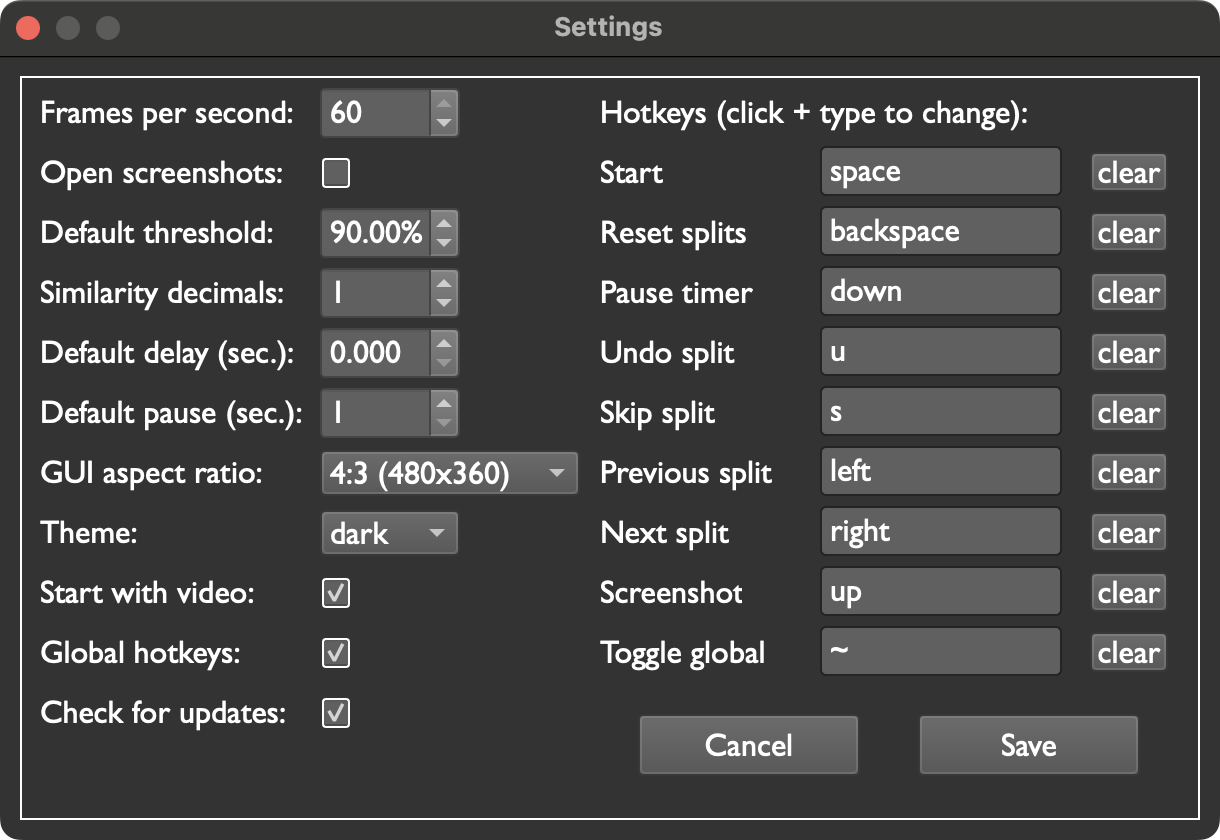
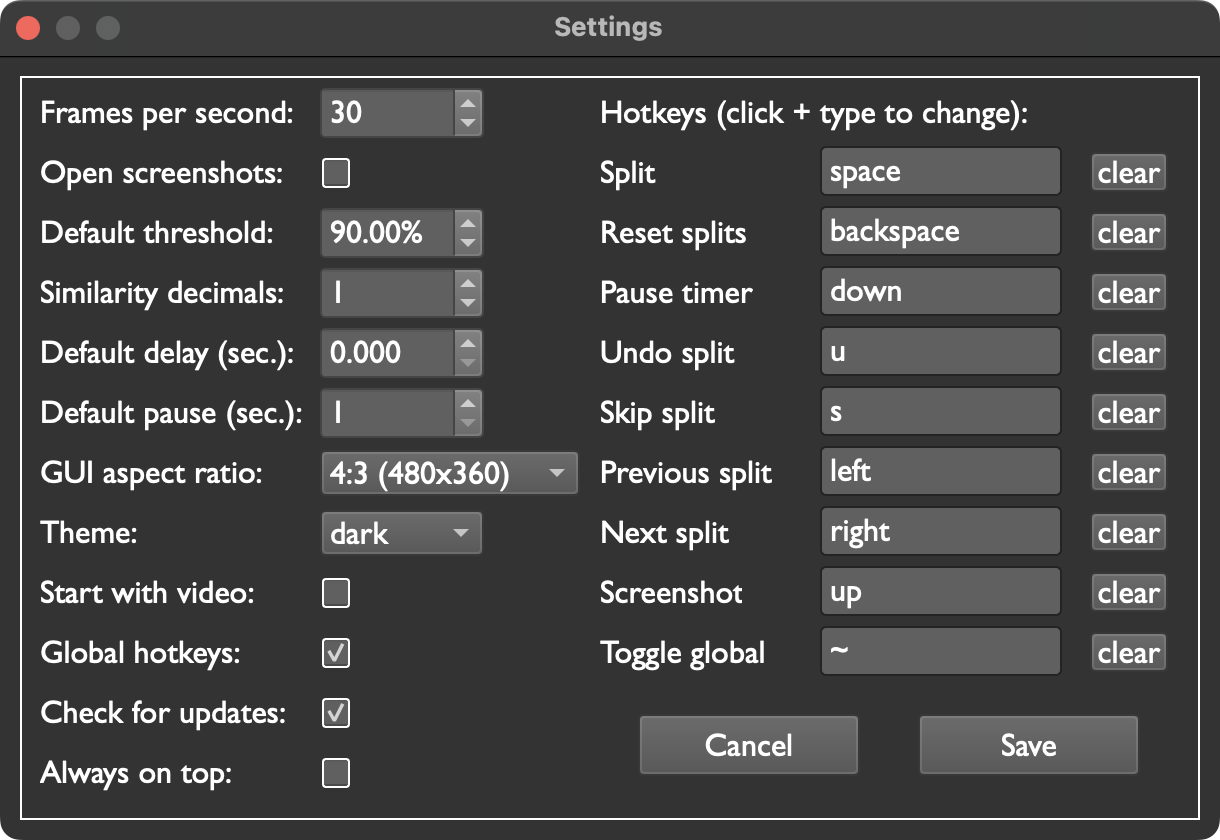
Add always on top info

diff --git a/04-settings.md b/04-settings.md
@@ -41,6 +41,8 @@ Maximum: `60`
 
 When selected, Pilgrim Autosplitter will open automatically open screenshots in your default image viewer.
 
+Default: `disabled`
+
 ## Default threshold
 
 The current video feed and the current split image must match this much for Pilgrim Autosplitter to split.
@@ -78,7 +80,7 @@ Minimum: `1 second`
 
 ## GUI aspect ratio
 
-Customize the size of your video and split images. 
+Customize the size of your video and split images.
 
 Supported resolutions:
 
@@ -106,7 +108,7 @@ Default: `disabled`
 
 ## Global hotkeys
 
-If enabled, hotkeys will work no matter what app is in focus.  
+If enabled, [hotkeys](#hotkeys) will work no matter what app is in focus.  
 If disabled, hotkeys will only work when Pilgrim Autosplitter is in focus. (For an exception to this behavior, see [Toggle global](#toggle-global).)
 
 Default: `enabled`
@@ -121,6 +123,12 @@ When enabled, Pilgrim Autosplitter will automatically check if a new version has
 Upgrading to a new version doesn't erase your settings; they are saved by the system.
 
 Default: `enabled`
+
+## Always on top
+
+When enabled, Pilgrim Autosplitter will stay on top of other apps, even when not in focus.
+
+Default: `disabled`
 
 # Hotkeys
 
